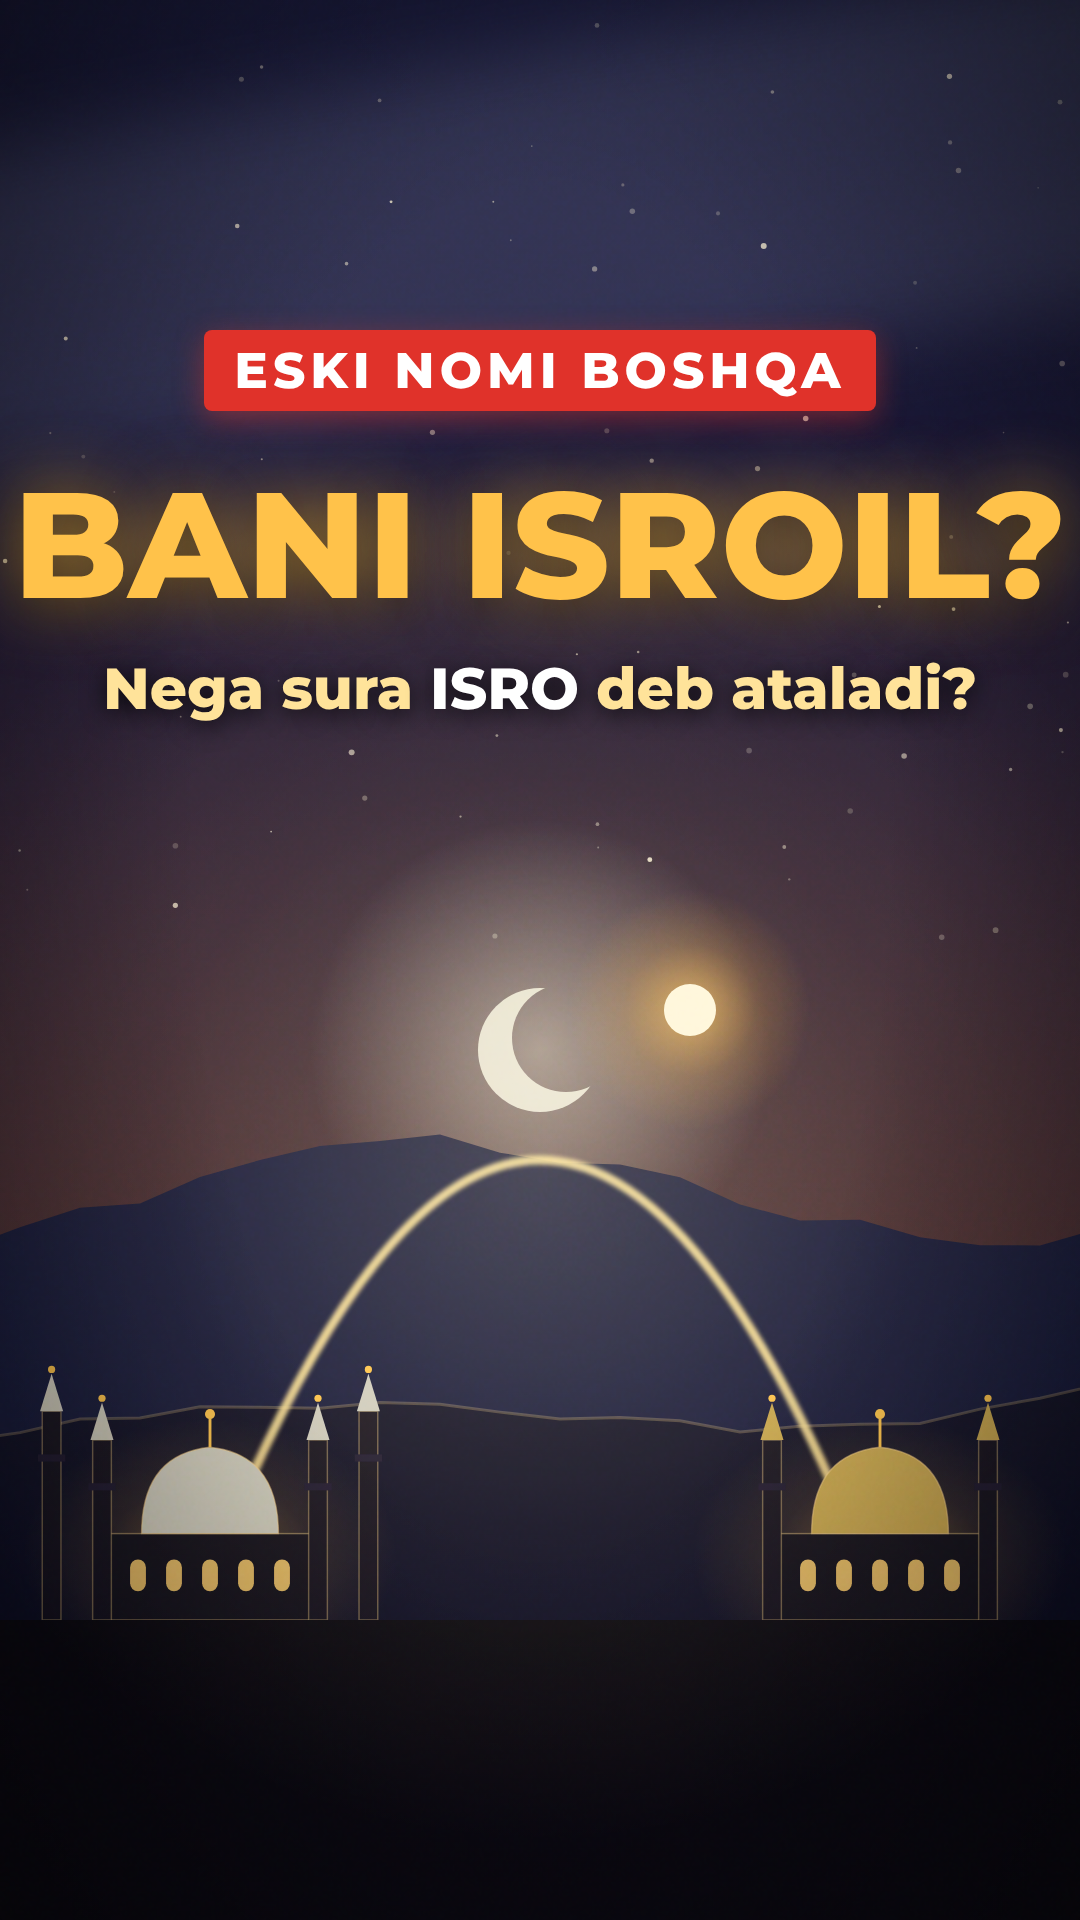
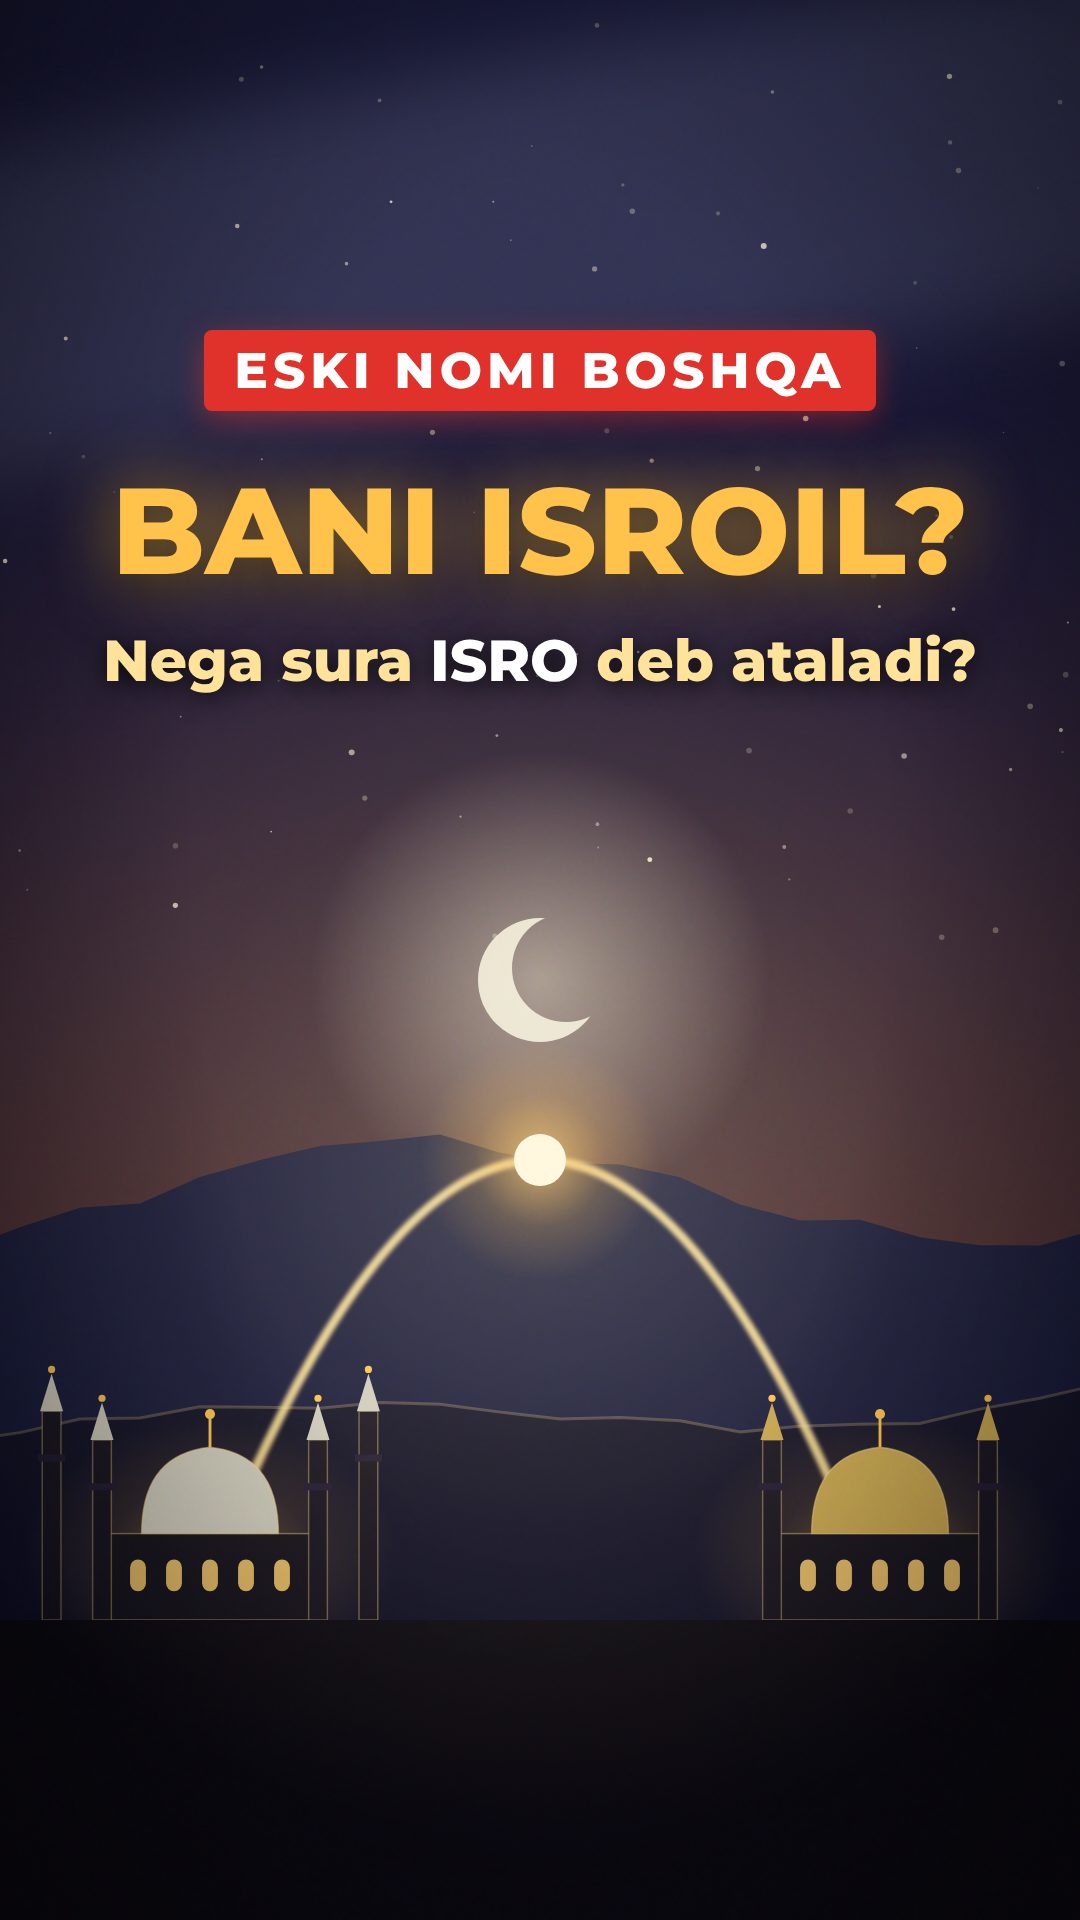
Isro: описание, обложка

Changed region(s): [[0.0, 0.25, 1.0, 0.375], [0.3972, 0.4062, 0.7333, 0.6562]]

diff --git a/reels/src/Isro.tsx b/reels/src/Isro.tsx
@@ -257,10 +257,10 @@ export const IsroCover: React.FC = () => {
   return (
     <AbsoluteFill style={{background: '#07060b'}}>
       <svg width={W} height={H} viewBox={`0 0 ${W} ${H}`} style={{position: 'absolute', left: 0, top: 0}}>
-        <Sky t={t} moon={{x: 540, y: 1050, o: 0.9}} />
+        <Sky t={t} moon={{x: 540, y: 980, o: 0.9}} />
         <Hills base={1300} amp={150} seed={6} fill="#14183a" /><Hills base={1460} amp={100} seed={2} fill="#0e0f26" edge="rgba(255,214,140,.25)" />
         <path d="M250 1480 Q540 840 830 1480" fill="none" stroke="rgba(255,226,150,.9)" strokeWidth={9} strokeLinecap="round" style={{filter: 'blur(2px)'}} />
-        <circle cx={690} cy={1010} r={120} fill="url(#v2glow)" /><circle cx={690} cy={1010} r={26} fill="#fff6d8" />
+        <circle cx={540} cy={1160} r={120} fill="url(#v2glow)" /><circle cx={540} cy={1160} r={26} fill="#fff6d8" />
         <Mosque x={210} y={1620} s={0.72} minarets={4} glow={1} dome="#cfcbbb" /><Mosque x={880} y={1620} s={0.72} minarets={2} glow={1} dome="#c9a64e" />
         <rect x={-300} y={1620} width={1700} height={700} fill="#0b0912" />
       </svg>
@@ -271,7 +271,7 @@ export const IsroCover: React.FC = () => {
         <span style={{display: 'inline-block', background: '#e0322a', color: '#fff', fontSize: 50, letterSpacing: 5, padding: '10px 30px', borderRadius: 8, boxShadow: '0 8px 30px rgba(224,50,42,.45)'}}>ESKI NOMI BOSHQA</span>
       </div>
       <div style={{position: 'absolute', left: 0, right: 0, top: 470, textAlign: 'center', fontFamily: 'Montserrat, Arial, sans-serif', fontWeight: 800, lineHeight: 1}}>
-        <div style={{fontSize: 150, color: GOLD, textShadow: '0 0 70px rgba(255,194,74,.65), 0 10px 40px rgba(0,0,0,.7)'}}>BANI ISROIL?</div>
+        <div style={{fontSize: 122, color: GOLD, textShadow: '0 0 70px rgba(255,194,74,.65), 0 10px 40px rgba(0,0,0,.7)'}}>BANI ISROIL?</div>
         <div style={{fontSize: 58, color: GOLD2, marginTop: 40, textShadow: '0 4px 24px rgba(0,0,0,.8)'}}>Nega sura <span style={{color: '#fff'}}>ISRO</span> deb ataladi?</div>
       </div>
     </AbsoluteFill>
